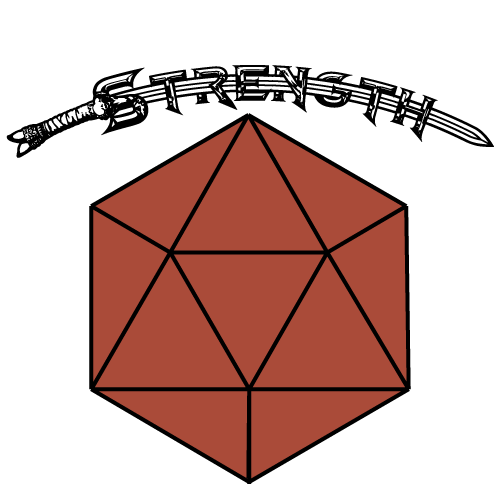
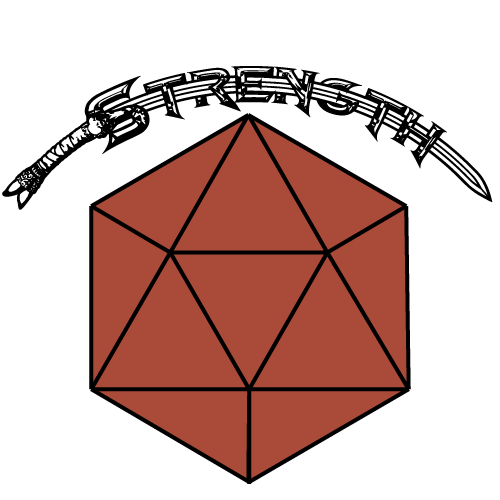
Graphics updated and added to website for abilities

Changed region(s): [[0.0, 0.12, 0.99, 0.42]]

diff --git a/abilities.html b/abilities.html
@@ -3,15 +3,15 @@
 <div class="card">
   <div class="card-block">
 
-    <h2>Abilities N Stuff</h2>
+    <h2>Abilities:</h2>
     <div class="row">
       <div class="col-md-4">
         <img src="./assets/images/isoSTR.png" class="img-responsive" alt="">
-        <img src="./assets/images/isoSTR.png" class="img-responsive" alt="">
-        <img src="./assets/images/isoSTR.png" class="img-responsive" alt="">
-        <img src="./assets/images/isoSTR.png" class="img-responsive" alt="">
-        <img src="./assets/images/isoSTR.png" class="img-responsive" alt="">
-        <img src="./assets/images/isoSTR.png" class="img-responsive" alt="">
+        <img src="./assets/images/isoDEX.png" class="img-responsive" alt="">
+        <img src="./assets/images/isoCON.png" class="img-responsive" alt="">
+        <img src="./assets/images/isoINT.png" class="img-responsive" alt="">
+        <img src="./assets/images/isoWIS.png" class="img-responsive" alt="">
+        <img src="./assets/images/isoCHA.png" class="img-responsive" alt="">
       </div>
       <div class="col-md-4">
         <img src="./assets/images/img-03.jpg" class="img-responsive" alt="">
